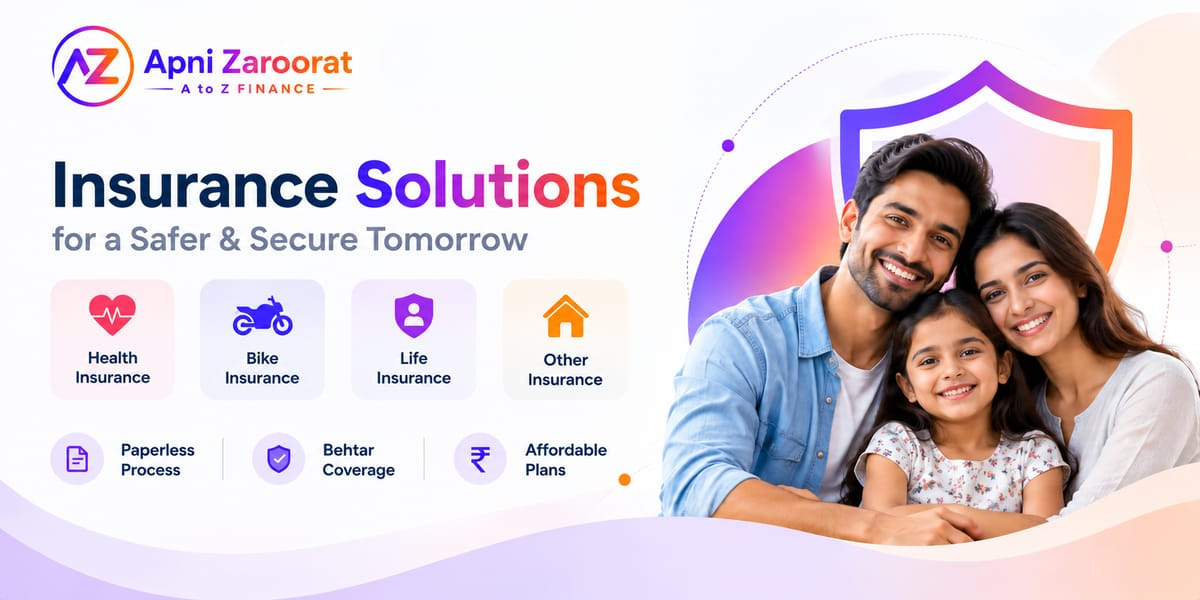
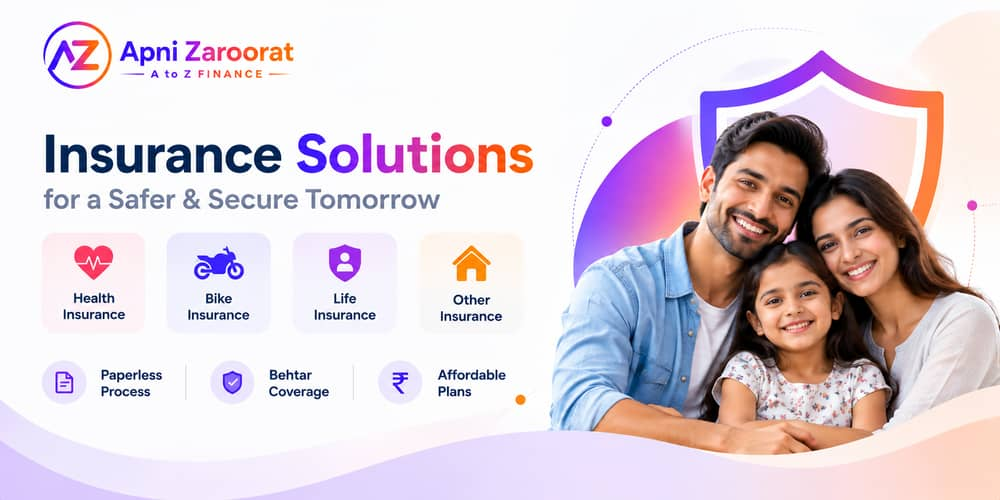
cc

diff --git a/src/whatsapp/whatsapp.service.ts b/src/whatsapp/whatsapp.service.ts
@@ -17,7 +17,6 @@ import {
   personalLoanText,
   productChoice,
   productImageFilename,
-  productImageUrl,
   thankYouText,
   welcomeInteractive,
   welcomeText,
@@ -25,7 +24,7 @@ import {
 } from './whatsapp-templates';
 
 const GRAPH_VERSION = 'v21.0';
-const GRAPH_SEND_MS = 10_000;
+const GRAPH_SEND_MS = 12_000;
 const GRAPH_UPLOAD_MS = 20_000;
 const MAX_MESSAGES = 1000;
 const EXISTING_MARK = 'EXISTING\n';
@@ -226,6 +225,9 @@ function asChat(raw: unknown): ChatDoc {
 export class WhatsappService {
   private linkCache: { until: number; url: string | null } | null = null;
   private mediaIdCache = new Map<string, { id: string; until: number }>();
+  private leadRouteCache = new Map<string, { until: number; action: 'new' } | { until: number; action: 'existing'; text: string }>();
+  private sentIds = new Set<string>();
+  private inflight = new Set<string>();
 
   constructor(
     @Inject(SUPABASE_CLIENT) private readonly supabase: SupabaseClient,
@@ -256,6 +258,7 @@ export class WhatsappService {
     }
 
     const inbound = extractInboundMessages(payload);
+    void this.warmTemplateMedia(settings);
     void this.dispatchInbound(settings, inbound);
     return 'ok';
   }
@@ -370,22 +373,121 @@ export class WhatsappService {
 
   private async handleInbound(settings: WhatsappSettings, message: InboundWhatsappMessage) {
     const assistantId = `ai:${message.messageId}`;
-    const userMessage: ChatMessage = {
-      id: message.messageId,
-      role: 'user',
-      text: this.userText(message),
-      at: new Date().toISOString(),
-    };
+    if (this.sentIds.has(assistantId) || this.inflight.has(message.messageId)) return;
+    this.inflight.add(message.messageId);
+    try {
+      const phone = canonicalWhatsappPhone(message.phone);
+      const userMessage: ChatMessage = {
+        id: message.messageId,
+        role: 'user',
+        text: this.userText(message),
+        at: new Date().toISOString(),
+      };
 
-    const appended = await this.appendMessage(
-      message.phone,
-      message.profileName,
-      userMessage,
-      message.phoneNumberId,
-    );
-    if (!appended) return;
-    await this.answerCustomer(settings, appended.row, message, assistantId, appended.added);
-    void this.flushUnsent(settings, message.phone);
+      const row = await this.readByPhone(phone);
+      const existingReply = row?.chat.messages.find((item) => item.id === assistantId);
+      if (existingReply?.sent) {
+        this.rememberSent(assistantId);
+        return;
+      }
+      if (existingReply) {
+        const result = await this.sendWhatsapp(settings, phone, existingReply, message.phoneNumberId || row?.chat.waPhoneNumberId || '');
+        if (result.ok) {
+          this.rememberSent(assistantId);
+          await this.markSent(phone, assistantId);
+        }
+        return;
+      }
+
+      const route = await this.routeCustomer(phone, row?.chat.leadNote, row?.chat.messages ?? []);
+      let reply = this.buildCustomerReply(settings, row, message, assistantId, route);
+      if (
+        route.action === 'new' &&
+        reply &&
+        !allowRateLimitedAction(`wa-in:${phone}`, 20, 10 * 60_000)
+      ) {
+        reply = {
+          id: assistantId,
+          role: 'assistant',
+          text: 'Please wait a few minutes before sending more messages.',
+          at: new Date().toISOString(),
+          replyBy: 'template',
+          waType: 'text',
+        };
+      }
+      if (reply) {
+        const result = await this.sendWhatsapp(settings, phone, reply, message.phoneNumberId || row?.chat.waPhoneNumberId || '');
+        if (result.ok) {
+          this.rememberSent(assistantId);
+          reply.sent = true;
+        } else if (result.error) {
+          reply.sendError = result.error;
+        }
+      }
+
+      const profile = message.profileName || row?.chat.profileName || '';
+      await this.appendMessage(phone, profile, userMessage, message.phoneNumberId);
+      if (reply) await this.appendMessage(phone, profile, reply, message.phoneNumberId);
+    } finally {
+      this.inflight.delete(message.messageId);
+    }
+  }
+
+  private rememberSent(id: string) {
+    this.sentIds.add(id);
+    if (this.sentIds.size > 4000) {
+      const first = this.sentIds.values().next().value;
+      if (first) this.sentIds.delete(first);
+    }
+  }
+
+  private buildCustomerReply(
+    settings: WhatsappSettings,
+    row: EnquiryRow | null,
+    message: InboundWhatsappMessage,
+    assistantId: string,
+    route: { action: 'new' } | { action: 'silent' } | { action: 'template'; text: string },
+  ): ChatMessage | null {
+    if (route.action === 'silent') return null;
+    const at = new Date().toISOString();
+    if (route.action === 'template') {
+      return {
+        id: assistantId,
+        role: 'assistant',
+        text: route.text,
+        at,
+        replyBy: 'template',
+        kind: 'status',
+        waType: 'text',
+      };
+    }
+    const messages = row?.chat.messages ?? [];
+    const name = message.profileName || row?.chat.profileName || '';
+    const choice = productChoice(message.buttonId, message.text);
+    if (choice === 'personal_loan' || choice === 'insurance') {
+      return this.productTemplateMessage(assistantId, name, choice, settings, message.phoneNumberId);
+    }
+    if (!alreadyWelcomed(messages)) {
+      return {
+        id: assistantId,
+        role: 'assistant',
+        text: welcomeText(name),
+        at,
+        replyBy: 'template',
+        kind: 'welcome',
+        waType: 'interactive',
+      };
+    }
+    if (alreadyOfferedProduct(messages) || alreadyThanked(messages)) return null;
+    return {
+      id: assistantId,
+      role: 'assistant',
+      text: thankYouText(name),
+      at,
+      replyBy: 'template',
+      kind: 'thanks',
+      waType: 'text',
+    };
   }
 
   private async ensureReply(
@@ -439,7 +541,12 @@ export class WhatsappService {
     const name = message.profileName || row.chat.profileName;
     const choice = productChoice(message.buttonId, message.text);
     if (choice === 'personal_loan' || choice === 'insurance') {
-      await this.storeAndSend(settings, row, name, this.productTemplateMessage(assistantId, name, choice));
+      await this.storeAndSend(
+        settings,
+        row,
+        name,
+        this.productTemplateMessage(assistantId, name, choice, settings, message.phoneNumberId),
+      );
       return;
     }
     if (!alreadyWelcomed(row.chat.messages)) {
@@ -475,17 +582,36 @@ export class WhatsappService {
     savedLeadNote: string | undefined,
     messages: ChatMessage[],
   ): Promise<{ action: 'new' } | { action: 'silent' } | { action: 'template'; text: string }> {
-    if (savedLeadNote === '') return { action: 'new' };
+    if (savedLeadNote === '') {
+      this.leadRouteCache.set(canonicalWhatsappPhone(phone), { until: Date.now() + 15 * 60_000, action: 'new' });
+      return { action: 'new' };
+    }
     if (savedLeadNote?.startsWith(EXISTING_MARK)) {
       const text = savedLeadNote.slice(EXISTING_MARK.length).trim();
       const told = messages.some((item) => item.role === 'assistant' && item.text.trim() === text);
       return told || !text ? { action: 'silent' } : { action: 'template', text };
     }
 
+    if (savedLeadNote === undefined && alreadyWelcomed(messages)) {
+      return { action: 'new' };
+    }
+    const cached = this.leadRouteCache.get(canonicalWhatsappPhone(phone));
+    if (cached && cached.until > Date.now()) {
+      if (cached.action === 'new') return { action: 'new' };
+      const told = messages.some((item) => item.role === 'assistant' && item.text.trim() === cached.text);
+      return told || !cached.text ? { action: 'silent' } : { action: 'template', text: cached.text };
+    }
+
     const template = await this.existingStatusTemplate(phone);
     if (template === null) return { action: 'template', text: STATUS_LOOKUP_RETRY };
 
-    await this.rememberLeadNote(phone, template ? `${EXISTING_MARK}${template}` : '', savedLeadNote !== undefined);
+    const key = canonicalWhatsappPhone(phone);
+    if (template) {
+      this.leadRouteCache.set(key, { until: Date.now() + 15 * 60_000, action: 'existing', text: template });
+    } else {
+      this.leadRouteCache.set(key, { until: Date.now() + 15 * 60_000, action: 'new' });
+    }
+    void this.rememberLeadNote(phone, template ? `${EXISTING_MARK}${template}` : '', savedLeadNote !== undefined);
     return template ? { action: 'template', text: template } : { action: 'new' };
   }
 
@@ -599,7 +725,16 @@ export class WhatsappService {
     return { ...row, chat: asChat(row.chat) };
   }
 
-  private productTemplateMessage(id: string, name: string, choice: ProductChoice): ChatMessage {
+  private productTemplateMessage(
+    id: string,
+    name: string,
+    choice: ProductChoice,
+    settings: WhatsappSettings,
+    inboundPhoneNumberId = '',
+  ): ChatMessage {
+    const fileName = productImageFilename(choice);
+    const fromId = (inboundPhoneNumberId || settings.phoneNumberId).replace(/\D/g, '');
+    if (fromId) void this.templateMediaId(settings, fromId, fileName);
     return {
       id,
       role: 'assistant',
@@ -608,8 +743,7 @@ export class WhatsappService {
       replyBy: 'template',
       kind: choice,
       waType: 'image',
-      mediaUrl: productImageUrl(choice),
-      filename: productImageFilename(choice),
+      filename: fileName,
       mime: 'image/jpeg',
     };
   }
@@ -693,25 +827,60 @@ export class WhatsappService {
     fromId: string,
     message: ChatMessage,
   ): Promise<ChatMessage> {
-    if (message.waType !== 'image' || message.mediaId) return message;
-    const fileName = message.filename || '';
-    if (fileName === 'wa_loa.jpg' || fileName === 'wa_ins.jpg') {
-      const id = await this.templateMediaId(settings, fromId, fileName);
-      if (id) return { ...message, mediaId: id, mediaUrl: undefined };
-      return { ...message, waType: 'text', mediaUrl: undefined, filename: undefined };
+    if (message.mediaId) return { ...message, waType: 'image', mediaUrl: undefined };
+    const product =
+      message.kind === 'insurance' ? 'insurance' : message.kind === 'personal_loan' ? 'personal_loan' : '';
+    const fileName =
+      message.filename === 'wa_ins.jpg' || message.filename === 'wa_loa.jpg'
+        ? message.filename
+        : product === 'insurance'
+          ? 'wa_ins.jpg'
+          : product === 'personal_loan'
+            ? 'wa_loa.jpg'
+            : '';
+    if (!fileName) {
+      if (message.waType === 'image' && message.mediaUrl) return message;
+      return message.waType === 'image' ? { ...message, waType: 'text' } : message;
     }
-    if (message.mediaUrl) return message;
-    return { ...message, waType: 'text' };
+
+    let id = await this.templateMediaId(settings, fromId, fileName);
+    if (!id) {
+      this.mediaIdCache.delete(`${fromId}:${fileName}`);
+      id = await this.templateMediaId(settings, fromId, fileName);
+    }
+    if (id) return { ...message, waType: 'image', mediaId: id, filename: fileName, mediaUrl: undefined, mime: 'image/jpeg' };
+    console.error('WhatsappService.withTemplateImage no media id', fileName);
+    return { ...message, waType: 'text', mediaUrl: undefined, mediaId: undefined };
   }
 
   private templateImagePath(fileName: string): string {
     const safe = fileName === 'wa_ins.jpg' ? 'wa_ins.jpg' : 'wa_loa.jpg';
-    const bases = [join(process.cwd(), 'src', 'whatsapp', 'media'), join(process.cwd(), 'dist', 'whatsapp', 'media'), join(__dirname, 'media')];
+    const bases = [
+      join(__dirname, 'media'),
+      join(__dirname, '..', 'whatsapp', 'media'),
+      join(process.cwd(), 'src', 'whatsapp', 'media'),
+      join(process.cwd(), 'dist', 'whatsapp', 'media'),
+      join(process.cwd(), 'server', 'src', 'whatsapp', 'media'),
+      join(process.cwd(), 'server', 'dist', 'whatsapp', 'media'),
+      join(process.cwd(), '..', 'az_web', 'public', 'images', 'whatsapp'),
+      join(process.cwd(), 'az_web', 'public', 'images', 'whatsapp'),
+      join(process.cwd(), '..', 'az_web', 'public', 'images', 'service'),
+      join(process.cwd(), 'az_web', 'public', 'images', 'service'),
+    ];
     for (const dir of bases) {
-      const full = join(dir, safe);
-      if (existsSync(full)) return full;
+      const jpg = join(dir, safe);
+      if (existsSync(jpg)) return jpg;
+      const png = join(dir, safe.replace(/\.jpg$/i, '.png'));
+      if (existsSync(png)) return png;
     }
     return '';
+  }
+
+  private warmTemplateMedia(settings: WhatsappSettings) {
+    const fromId = settings.phoneNumberId.replace(/\D/g, '');
+    if (!fromId || !settings.accessToken) return;
+    void this.templateMediaId(settings, fromId, 'wa_loa.jpg');
+    void this.templateMediaId(settings, fromId, 'wa_ins.jpg');
   }
 
   private async templateMediaId(settings: WhatsappSettings, fromId: string, fileName: string): Promise<string> {
@@ -719,11 +888,15 @@ export class WhatsappService {
     const hit = this.mediaIdCache.get(key);
     if (hit && hit.until > Date.now()) return hit.id;
     const path = this.templateImagePath(fileName);
-    if (!path) return '';
+    if (!path) {
+      console.error('WhatsappService.templateImagePath missing', fileName);
+      return '';
+    }
+    const png = path.toLowerCase().endsWith('.png');
     const uploaded = await this.uploadWhatsappMedia(settings, fromId, {
       buffer: readFileSync(path),
-      originalname: fileName,
-      mimetype: 'image/jpeg',
+      originalname: png ? fileName.replace(/\.jpg$/i, '.png') : fileName,
+      mimetype: png ? 'image/png' : 'image/jpeg',
     });
     if (!uploaded.id) {
       console.error('WhatsappService.templateMediaId', uploaded.error);

diff --git a/src/whatsapp/whatsapp-settings.service.ts b/src/whatsapp/whatsapp-settings.service.ts
@@ -84,6 +84,7 @@ function pickStored(parsed: Partial<WhatsappSettings> | null): WhatsappSettings 
 
 @Injectable()
 export class WhatsappSettingsService {
+  private effectiveCache: { until: number; value: WhatsappSettings } | null = null;
   constructor(
     @Inject(SUPABASE_CLIENT) private readonly supabase: SupabaseClient,
     private readonly config: ConfigService,
@@ -112,9 +113,12 @@ export class WhatsappSettingsService {
 
   /** DB value wins. Env is only a fallback so existing webhook tokens keep working. */
   async getEffective(): Promise<WhatsappSettings> {
+    if (this.effectiveCache && this.effectiveCache.until > Date.now()) {
+      return this.effectiveCache.value;
+    }
     const stored = await this.getStored();
     const env = (name: string) => (this.config.get<string>(name) ?? '').trim();
-    return {
+    const value: WhatsappSettings = {
       accessToken: cleanAccessToken(stored.accessToken || env('WHATSAPP_ACCESS_TOKEN')),
       phoneNumberId: stored.phoneNumberId || env('WHATSAPP_PHONE_NUMBER_ID'),
       businessAccountId: stored.businessAccountId || env('WHATSAPP_BUSINESS_ACCOUNT_ID'),
@@ -122,6 +126,8 @@ export class WhatsappSettingsService {
       verifyToken: stored.verifyToken || env('WHATSAPP_VERIFY_TOKEN'),
       displayPhone: stored.displayPhone || digitsOnly(env('WHATSAPP_DISPLAY_PHONE')),
     };
+    this.effectiveCache = { until: Date.now() + 60_000, value };
+    return value;
   }
 
   toPublic(settings: WhatsappSettings): WhatsappSettingsPublic {
@@ -160,6 +166,7 @@ export class WhatsappSettingsService {
 
     const err = await this.persist(next);
     if (err) throw new BadRequestException('Could not save WhatsApp settings.');
+    this.effectiveCache = null;
     return { settings: next, warning };
   }
 
@@ -187,6 +194,7 @@ export class WhatsappSettingsService {
       console.error('WhatsappSettingsService.save', error.message);
       return error.message;
     }
+    this.effectiveCache = null;
     return null;
   }
 
